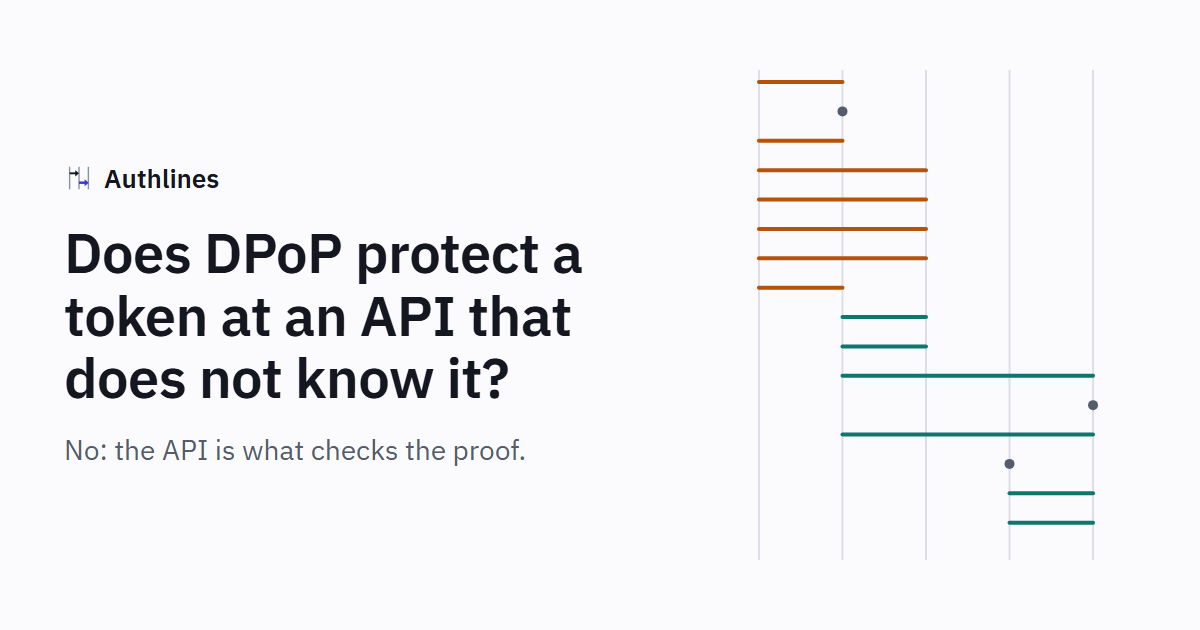
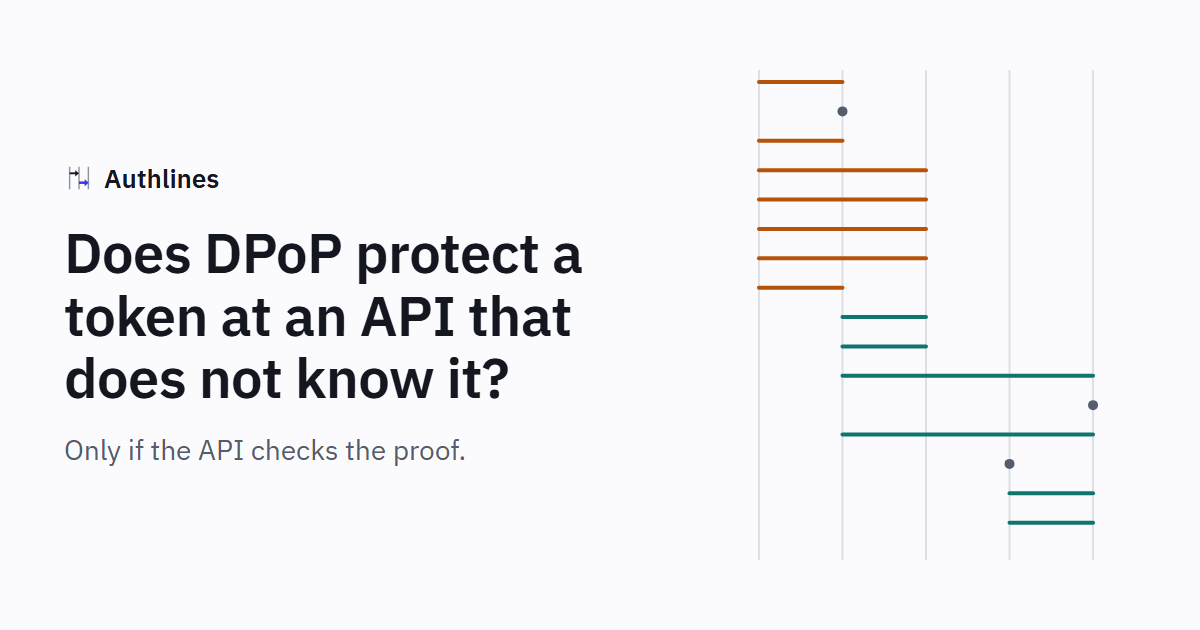
fix: what a claims audit found in the words on a stolen DPoP token
The drawing showed one API that took a proof from the app and plain Bearer from the thief, which
is an API taking both kinds, the one RFC 9449 section 7.2 says must refuse. Now the API that knows
only Bearer gets plain Bearer from the app too, which section 7.2 allows, recorded again. The
identity provider does check proofs, at its own endpoints. Someone running inside the app could
use the key, so the attacker is someone with only the token. Whether a token is refused is the
library or gateway the API uses, not only its own code. A proof is tied to the method and address,
and shows the sender holds the key or a proof made with it. The stand-in API also takes typ DPoP,
which a real one might not, and the notes say so.

Changed region(s): [[0.0308, 0.6937, 0.4317, 0.754]]

diff --git a/src/lib/flow/authorization-code.ts b/src/lib/flow/authorization-code.ts
@@ -188,7 +188,7 @@ export const authorizationCode: DiagramDef = withTheOldWayInTheFlow({
 			role: 'Has a copy of the token',
 			icon: 'attacker',
 			concept:
-				'Someone who has a copy of the access token, and not the key in the app that it is tied to. How they got it is not drawn: a log that kept it, a leak, or something running where the app runs.',
+				'Someone who has a copy of the access token, and not the key in the app that it is tied to, from a log that kept it, say, or a leak. Something running inside the app could use the key as well, which DPoP does not stop.',
 			when: thief
 		},
 		{
@@ -2087,6 +2087,7 @@ export const authorizationCode: DiagramDef = withTheOldWayInTheFlow({
 				{ text: 'The app calls the API with the token' }
 			],
 			label: [
+				{ when: bearerOnly, text: 'GET /bearer-only/resource' },
 				{ when: sends('elsewhere'), text: 'GET /my-api/resource' },
 				{ when: sends('noscope'), text: 'GET /contacts' },
 				{ text: 'GET /resource' }
@@ -2117,6 +2118,10 @@ export const authorizationCode: DiagramDef = withTheOldWayInTheFlow({
 					text: 'The token is fine, and this API asks for a scope it does not have.'
 				},
 				{
+					when: bearerOnly,
+					text: 'This API knows only Bearer, so the app sends its DPoP token there as a plain Bearer token, with no proof, which DPoP allows for an API that asks for Bearer.'
+				},
+				{
 					when: dpop,
 					text: 'The app sends the token and a new proof, which shows it holds the key the token is tied to.'
 				},
@@ -2130,15 +2135,20 @@ export const authorizationCode: DiagramDef = withTheOldWayInTheFlow({
 					name: 'Authorization: Bearer',
 					place: 'header',
 					artifact: 'access-token',
-					when: all(bearer, not(sends('none')))
+					when: any(all(bearer, not(sends('none'))), bearerOnly)
 				},
-				{ name: 'Authorization: DPoP', place: 'header', artifact: 'access-token', when: dpop },
+				{
+					name: 'Authorization: DPoP',
+					place: 'header',
+					artifact: 'access-token',
+					when: all(dpop, not(bearerOnly))
+				},
 				{
 					name: 'DPoP',
 					place: 'header',
 					note: 'A proof tied to this access token',
 					artifact: 'proof',
-					when: dpop
+					when: all(dpop, not(bearerOnly))
 				}
 			]
 		},
@@ -2151,6 +2161,10 @@ export const authorizationCode: DiagramDef = withTheOldWayInTheFlow({
 			plain: 'The API checks the token',
 			label: 'Check the token',
 			concept: [
+				{
+					when: bearerOnly,
+					text: 'The API checks the token as a Bearer token: the signature, who issued it, that it has not run out, and who it is for. It never looks at what the token is tied to.'
+				},
 				{
 					when: dpop,
 					text: 'The API checks the token, and that the proof was signed with the key the token names.'
@@ -2281,7 +2295,7 @@ export const authorizationCode: DiagramDef = withTheOldWayInTheFlow({
 			to: 'api',
 			kind: 'request',
 			plain: 'They call the API with it, and no proof',
-			label: 'GET /resource',
+			label: [{ when: bearerOnly, text: 'GET /bearer-only/resource' }, { text: 'GET /resource' }],
 			concept:
 				'They send it as a plain Bearer token, because the key it is tied to stayed in the app, so they cannot make a proof.',
 			fields: [
@@ -2301,7 +2315,7 @@ export const authorizationCode: DiagramDef = withTheOldWayInTheFlow({
 				{
 					source: 'rfc9449',
 					section: '7.2',
-					why: 'Section 7.2 says an API that supports DPoP must refuse a bound token sent as Bearer, and that one which knows only Bearer would most likely take it.'
+					why: 'Section 7.2 says an API that takes both DPoP and Bearer must refuse a bound token sent as Bearer, and that one which knows only Bearer would most likely take it.'
 				}
 			],
 			from: 'api',
@@ -2312,14 +2326,14 @@ export const authorizationCode: DiagramDef = withTheOldWayInTheFlow({
 			concept: [
 				{
 					when: bearerOnly,
-					text: 'This API was written before DPoP and never looks at what the token is tied to, so the token alone gets them in. The key in the app protected nothing here.'
+					text: 'This API, standing in for one written before DPoP, never looks at what the token is tied to, and took the token alone, which section 7.2 expects of an API that knows only Bearer. The key in the app protected nothing here.'
 				},
 				{
 					text: 'This API sees that the token is tied to a key, and wants a proof made with it, which they cannot make. The token alone gets nobody in.'
 				}
 			],
 			inPractice:
-				"The check is in the API, not the identity provider, so it is the API team's own code to get right. An API that takes both kinds of token has to refuse a bound one sent as Bearer.",
+				'Whether a stolen token is refused is up to the API, and to how whatever checks its tokens is set up. One that takes both kinds of token has to refuse a bound one sent as Bearer.',
 			fields: [
 				{ name: 'resource', place: 'body', note: 'What the API answers', when: bearerOnly },
 				{

diff --git a/src/lib/map/tracks.ts b/src/lib/map/tracks.ts
@@ -340,7 +340,7 @@ export const mapTracks: readonly MapTrack[] = [
 				node({
 					id: 'stolen-token',
 					answer:
-						'It ties the token to a key that stays in the app, and each call has to carry a proof signed with that key. At an API that checks the proof, the token alone gets nobody in. An API that knows only Bearer never looks, and takes it.',
+						'It ties the token to a key that stays in the app, and each call has to carry a proof signed with that key. At an API that checks the proof, the token alone gets nobody in. One that knows only Bearer may never look, and the one recorded took it.',
 					title: 'How does DPoP stop a stolen token being used?',
 					summary: 'Only where the API checks the proof. The theft itself is not drawn.',
 					mode: 'advanced',
@@ -715,7 +715,7 @@ export const offTheMap: readonly MapNode[] = [
 		id: 'dpop-on-the-wire',
 		alsoAskedAs: ['dpop proof', 'dpop header'],
 		answer:
-			'A proof with each call: a short note signed with a key that stays in the app, new each time and tied to the call it goes with. The token says which key, so an API that checks can tell it came from the app it was issued to.',
+			'A proof with each call: a short note signed with a key that stays in the app, new each time and tied to the method and address of the call. The token says which key, so an API that checks can tell the sender has that key, or a proof made with it.',
 		title: 'What does DPoP add to each call?',
 		summary: 'A proof, signed with a key that stays in the app.',
 		mode: 'advanced',
@@ -726,9 +726,9 @@ export const offTheMap: readonly MapNode[] = [
 		id: 'dpop-at-a-bearer-api',
 		alsoAskedAs: ['dpop downgrade', 'dpop as bearer', 'bearer only api'],
 		answer:
-			"No. An API written before DPoP never looks at what the token is tied to, so a stolen one sent as plain Bearer gets in. The check is the API's own code, and an API that takes both has to refuse a bound token sent as Bearer.",
+			'Not if it never looks at what the token is tied to: the one recorded took a stolen token sent as plain Bearer. Whether it looks is the library or gateway the API uses, and one that takes both kinds has to refuse a bound token sent as Bearer.',
 		title: 'Does DPoP protect a token at an API that does not know it?',
-		summary: 'No: the API is what checks the proof.',
+		summary: 'Only if the API checks the proof.',
 		mode: 'advanced',
 		preset: 'dpop-thief-bearer-only',
 		step: 'thief-api-response'

diff --git a/src/lib/flow/settings.ts b/src/lib/flow/settings.ts
@@ -319,7 +319,7 @@ export const settingDefs: { [K in SettingId]: DefFor<Settings[K]> } = {
 		default: false,
 		onlyOn: 'authorization-code',
 		summary: 'Someone has the access token, and calls the API with it, without a proof.',
-		why: "DPoP only helps where something checks the proof, and that is the API, not the identity provider. So whether a stolen token gets someone in depends on the API's own code.",
+		why: 'A stolen access token is only refused where the API checks the proof. The identity provider checks proofs at its own endpoints, and cannot check them at yours, so it is up to the API and the library or gateway it uses.',
 		sources: [
 			{
 				source: 'rfc9449',
@@ -357,7 +357,7 @@ export const settingDefs: { [K in SettingId]: DefFor<Settings[K]> } = {
 		onlyOn: 'authorization-code',
 		summary:
 			'An API that checks the DPoP proof, or one written before DPoP that knows only Bearer.',
-		why: 'The same token gets two answers. An API that knows DPoP sees the token is tied to a key and wants the proof. One that knows only Bearer never looks at that, so the token alone gets in.',
+		why: 'The same token gets two answers. An API that knows DPoP sees the token is tied to a key and wants the proof. One that knows only Bearer may never look at that, and the one recorded took the token alone.',
 		sources: [
 			{
 				source: 'rfc9449',

diff --git a/scripts/record/demo.ts b/scripts/record/demo.ts
@@ -552,7 +552,10 @@ export class Demo {
 		}
 
 		const { apiToken } = settings;
-		const resource = `${API}${{ elsewhere: '/my-api/resource', noscope: '/contacts' }[apiToken as string] ?? '/resource'}`;
+		const bearerOnly = settings.tokenThief && settings.apiChecks === 'bearer';
+		const resource = bearerOnly
+			? `${API}/bearer-only/resource`
+			: `${API}${{ elsewhere: '/my-api/resource', noscope: '/contacts' }[apiToken as string] ?? '/resource'}`;
 		// The token has a very short life for this one, set up in keycloak.ts, so it just has to wait.
 		if (apiToken === 'expired') await new Promise((resolve) => setTimeout(resolve, 2100));
 		const sent = apiToken === 'changed' ? withMoreInIt(tokens.access_token) : tokens.access_token;
@@ -561,7 +564,11 @@ export class Demo {
 			['api-request', 'api-response'],
 			'GET',
 			resource,
-			apiToken === 'none' ? {} : this.#authorization('GET', resource, sent)
+			apiToken === 'none'
+				? {}
+				: bearerOnly
+					? { authorization: `Bearer ${sent}` }
+					: this.#authorization('GET', resource, sent)
 		);
 		if (answer.status !== 200 && apiToken === 'good') {
 			throw new Error(`The API refused: ${answer.text}`);

diff --git a/scripts/record/checks.test.ts b/scripts/record/checks.test.ts
@@ -196,7 +196,7 @@ describe('what the demo API checks', () => {
 			expect(await ask(`DPoP ${token}`)).toBe('no proof');
 		});
 
-		// What an API written before DPoP does, and the only difference is the one check it skips.
+		// What an API written before DPoP may do: it skips the binding, which RFC 9449 section 7.2 expects.
 		it('is taken as a bearer token by an API that knows only Bearer', async () => {
 			const onlyBearer = { ...trust(), knowsOnlyBearer: true };
 			expect(await ask(`Bearer ${token}`, undefined, onlyBearer)).toBeNull();

diff --git a/tests/e2e/stolen-token.spec.ts b/tests/e2e/stolen-token.spec.ts
@@ -25,7 +25,7 @@ test.describe('a stolen DPoP token (#33)', () => {
 		await expect(page).toHaveURL(/checks=bearer/);
 		await expect(row(page, 'thief-api-response')).toHaveCount(1);
 		await expect(page.getByTestId('step-detail')).toContainText('200 with the resource');
-		await expect(page.getByTestId('step-detail')).toContainText("the API team's own code");
+		await expect(page.getByTestId('step-detail')).toContainText('whatever checks its tokens');
 	});
 
 	test('goes when DPoP does, and takes the choice with it', async ({ page }) => {

diff --git a/docs/premise.md b/docs/premise.md
@@ -322,7 +322,7 @@ An order for later releases. **Proposed**, and expected to change.
 | Stored upstream tokens | Modifier on brokering, then API V1 or V2 | Adds a retrieval call after login. V2 needs a confidential client |
 | User federation, built | Modifier, in advanced mode, that turns another provider off | Adds a lifeline, a search and a password check on the server, and no redirect. The setup gains an admin connecting the directory. Only in the plain case |
 | PAR | Modifier | Adds a back-channel push and changes the front channel |
-| Bearer, DPoP or mTLS | Exclusive | Cross-cutting, and DPoP adds a nonce retry. With DPoP, built in advanced mode ([#33](https://github.com/vriesdemichael/authlines/issues/33)): someone using a stolen token, with no proof. An API that checks the proof refuses it, and one that knows only Bearer takes it, as RFC 9449 section 7.2 expects, so the screen says the check is the API's own code |
+| Bearer, DPoP or mTLS | Exclusive | Cross-cutting, and DPoP adds a nonce retry. With DPoP, built in advanced mode ([#33](https://github.com/vriesdemichael/authlines/issues/33)): someone using a stolen token, with no proof. An API that checks the proof refuses it, and one that knows only Bearer takes it, as RFC 9449 section 7.2 expects, so the screen says it is up to the API and the library or gateway it uses |
 | Many customers, each with a provider, and SAML | **Decided, in scope** ([#118](https://github.com/vriesdemichael/authlines/issues/118)). Built as a modifier on another provider, then a choice of OpenID Connect or SAML, in advanced mode and the plain case | **Proposed, as built:** one shape, with our provider in the middle, because then the app still knows only one provider. It asks for the email, finds the company by its domain, and sends them on. With SAML, set up as SAML's POST binding, the request and an assertion in a signed response go through the browser in forms that post themselves, nothing is traded out of sight, and the assertion opens in the raw view. The token gains which customer. The setup gains the customer's admins, with what goes each way. Connecting the app to each customer directly would make it speak SAML itself, so the step that finds the company says that, and it is not drawn. Someone leaving is a modifier on that: their company turns the account off, and on the server recorded the old token, a refresh and the same browser logging in again all still worked. The token lasts its own few minutes, and a refresh or a login works while the session in the middle lasts, because nothing was set up to tell it |
 | Token exchange | Later | `token-exchange-standard:v2`, internal-to-internal only |
 | Device, built | Base flow | A person carries a short code to another device, and the app keeps asking with a long one. How it ends is a choice in advanced mode: the user agrees, says no, or the codes run out, each recorded. A choice in simple mode too brings someone misusing it onto the diagram: sending the user a code of theirs, where how it ends decides what they get, or reading the code off the screen and getting there first |

diff --git a/docs/measurements.md b/docs/measurements.md
@@ -19,4 +19,4 @@
 - The fifteenth measurement is an app in the page with a server behind it ([#145](https://github.com/vriesdemichael/authlines/issues/145)): flow data, a recording from a real page and a small server of the demo app's own, which the recorder also asks what a script in the page can do, and one small addition to the settings: an option can give its own reason, because the setting's reason says the tokens end up in the browser, and this option is there to stop that. Nothing new in the model or the renderer. The rail in simple mode has a word budget, and the new label did not fit, so the other two got shorter.
 - The sixteenth measurement is customers with providers of their own, and SAML ([#118](https://github.com/vriesdemichael/authlines/issues/118)): flow data, two recordings with two realms standing in for customers, questions the recorder asks, a note, and a recorder that can set up organizations and a SAML provider. Two small additions to the model: what a person sees at a step can depend on the settings, as its words could, and a page that is not a redirect is at the address of the request it answered. The raw view learned to open a SAML message, as it opens a token. The renderer did not change: SAML's form posts are arrows through the browser like any other.
 - The seventeenth measurement is someone leaving a customer's company ([#118](https://github.com/vriesdemichael/authlines/issues/118)): flow data, two recordings, questions the recorder asks in a real browser, and no change to the model or the renderer. The demo app gained a hook for what happens while someone is logged in, and the recorder a way to draw a second login as steps of their own.
-- The eighteenth measurement is someone using a stolen DPoP token ([#33](https://github.com/vriesdemichael/authlines/issues/33)): flow data, two recordings, and an API in the demo app that knows only Bearer, which is the one check it skips. No change to the model or the renderer: the attacker who already steals a code is the same lifeline with a token in place of it.
+- The eighteenth measurement is someone using a stolen DPoP token ([#33](https://github.com/vriesdemichael/authlines/issues/33)): flow data, two recordings, and an API in the demo app that knows only Bearer: it skips the binding, and takes a token that says it is DPoP. No change to the model or the renderer: the attacker who already steals a code is the same lifeline with a token in place of it.

diff --git a/docs/research/followup-checks.md b/docs/research/followup-checks.md
@@ -336,6 +336,6 @@ Not tried: Acme ending the session itself (SAML single logout), what "Add to exi
 
 ## A stolen DPoP token
 
-Recorded on Keycloak 26.8.1 on 2026-11-03 (`dpop-thief` and `dpop-thief-bearer-only`). Keycloak issued a DPoP-bound access token, with the key's thumbprint in `cnf.jkt`, and someone else sent that same token as plain Bearer, with no proof. The demo API that checks the binding answered 401 with `invalid_token`. The same demo API with that one check skipped, standing in for an API written before DPoP, answered 200. That second API is ours, not a product, and it is what RFC 9449 section 7.2 expects of one that knows only Bearer. Keycloak's own userinfo endpoint refuses such a token sent as Bearer, with a 401, which the recorder already asks (`userinfoWithDpopToken.asBearer`).
+Recorded on Keycloak 26.8.1 on 2026-11-03 (`dpop-thief` and `dpop-thief-bearer-only`). Keycloak issued a DPoP-bound access token, with the key's thumbprint in `cnf.jkt`, and someone else sent that same token as plain Bearer, with no proof. The demo API that checks the binding answered 401 with `invalid_token`. The same demo API with the binding not checked, standing in for an API written before DPoP, answered 200, and the app's own call there went as plain Bearer too, which section 7.2 allows. A real API that knows only Bearer could still refuse it for saying `typ` DPoP, which the stand-in does not. That second API is ours, not a product, and it is what RFC 9449 section 7.2 expects of one that knows only Bearer. Keycloak's own userinfo endpoint refuses such a token sent as Bearer, with a 401, which the recorder already asks (`userinfoWithDpopToken.asBearer`).
 
 Not tried: an API behind a gateway that strips or rewrites the scheme, and mTLS, the other way of tying a token.
